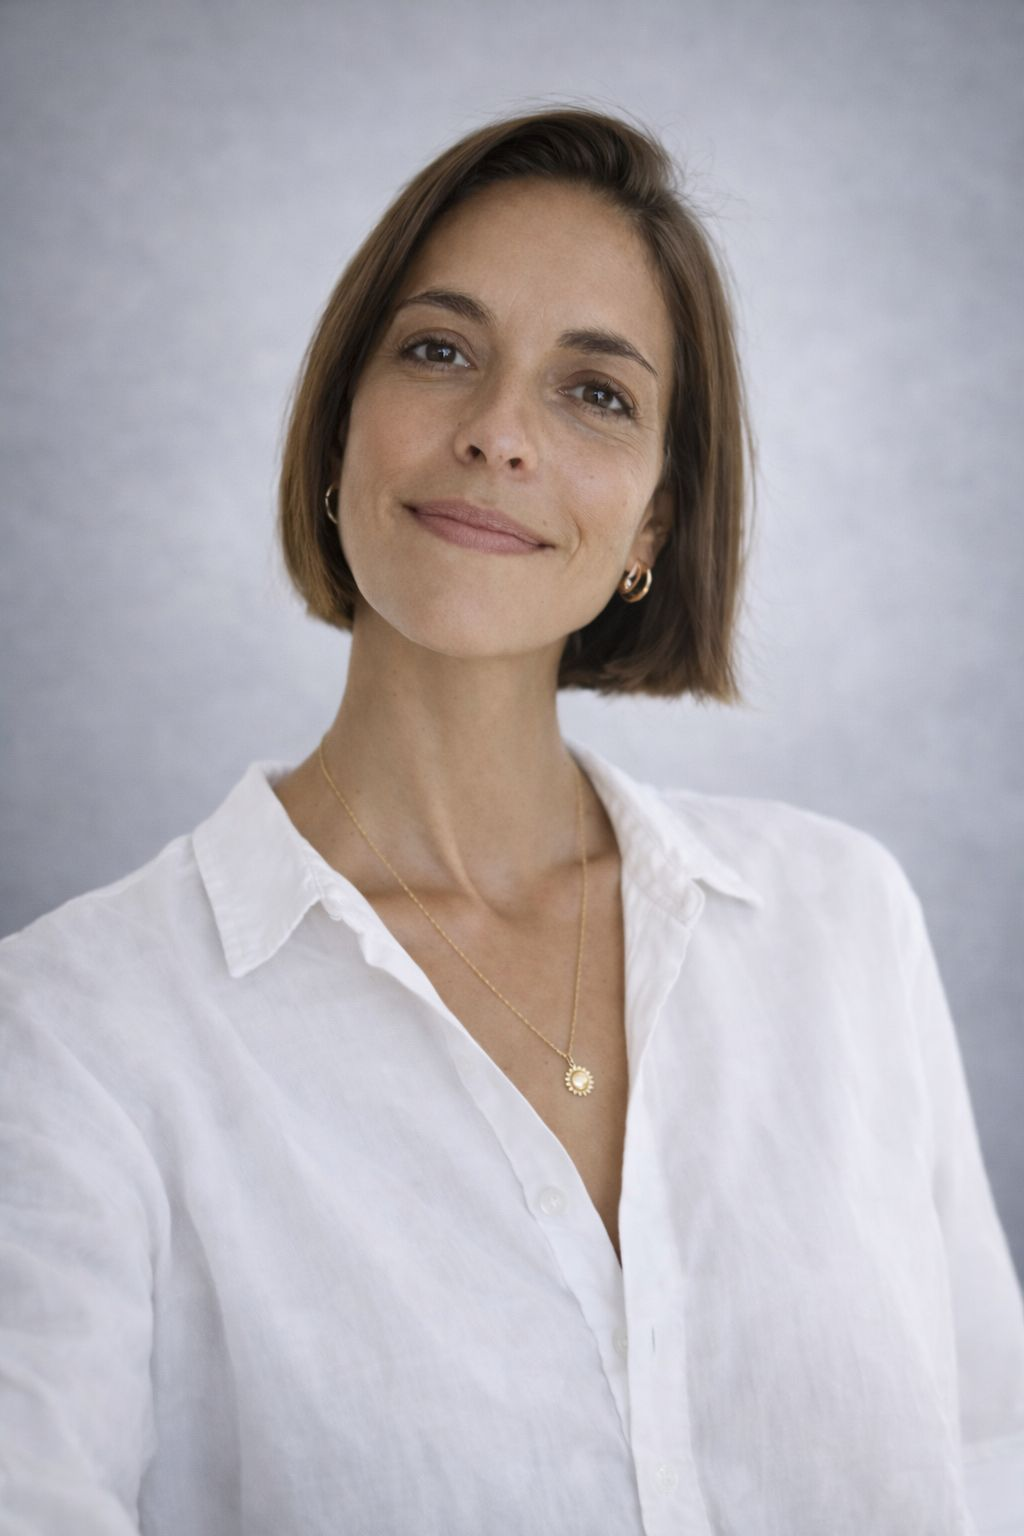
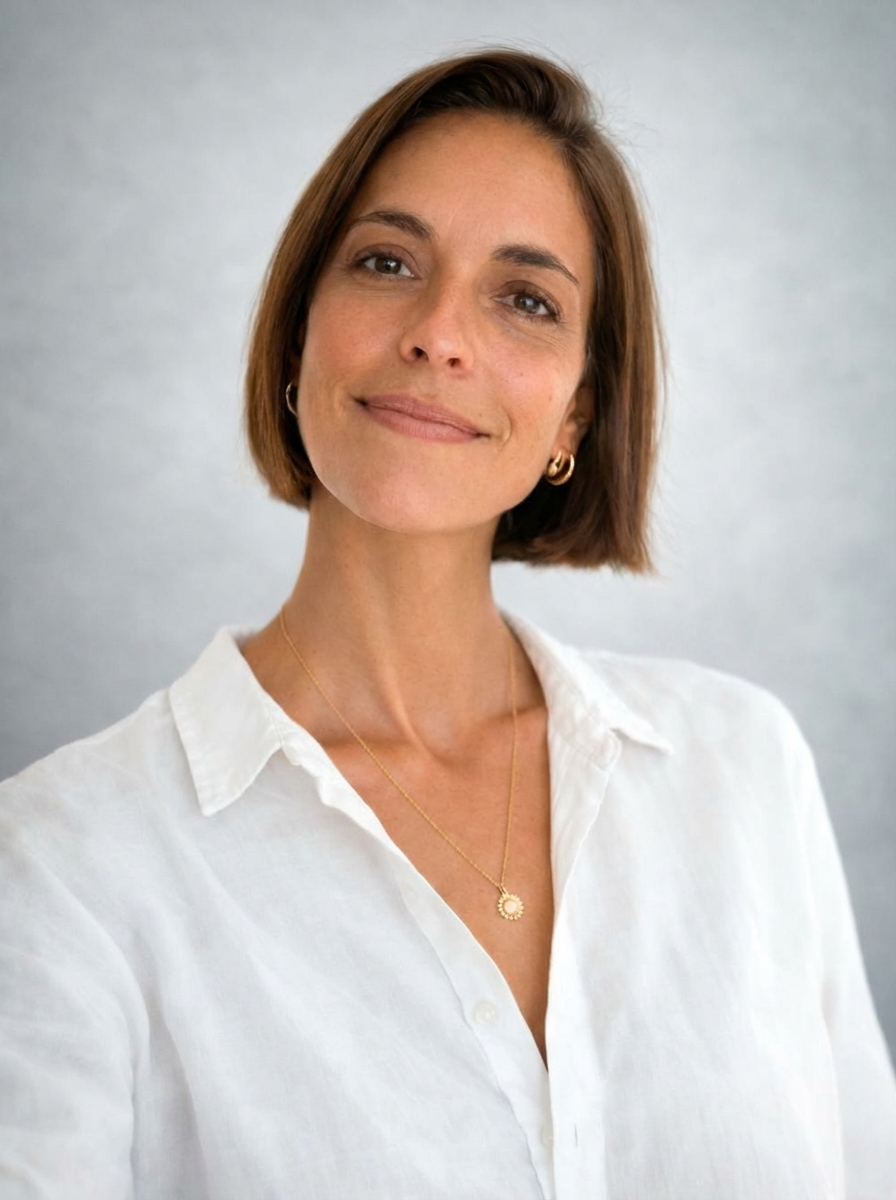
cambio fotos

diff --git a/src/components/MasterStations.tsx b/src/components/MasterStations.tsx
@@ -4,12 +4,13 @@ import { motion } from "framer-motion";
 import Image from "next/image";
 
 import fotoJoaco from "../../public/foto-joaco.png";
-import fotoMalu from "../../public/foto-malu.png";
-import fotoMeli from "../../public/foto-meli.png";
-import fotoYuli from "../../public/foto-yuli.png";
-import fotoRodri from "../../public/foto-rodri.png";
-import fotoMarian from "../../public/foto-marian.png";
+import fotoMalu from "../../public/foto-malu.jpeg";
+import fotoMeli from "../../public/foto-melisa.jpeg";
+import fotoYuli from "../../public/foto-yuli.jpeg";
+import fotoRodri from "../../public/foto-rodrigo.jpeg";
+import fotoMarian from "../../public/foto-mariangeles.jpeg";
 import fotoQuimey from "../../public/foto-quimey.png";
+import fotoBarbra from "../../public/foto-barbra.jpeg";
 
 const masters = [
     { 
@@ -67,6 +68,14 @@ const masters = [
         role: "FUSIÓN CIBER-ESPIRITUAL",
         title: "Tecnología e Inteligencia Artificial", 
         description: "La tecnología avanza cada vez más rápido, y muchas veces puede sentirse lejana, confusa o incluso intimidante. Sin embargo, cuando aprendemos a relacionarnos con ella de forma simple, se convierte en una gran aliada para crear, trabajar y compartir lo que tenemos para ofrecer. Acompaño a personas que quieren empezar a utilizar herramientas de inteligencia artificial sin sentirse perdidas en el proceso. Desde lo más básico hasta aplicaciones más avanzadas, el objetivo es que la tecnología deje de ser un obstáculo y se transforme en una herramienta a tu favor. En esta estación exploramos cómo amigarnos con la IA y usarla de forma práctica para potenciar nuestras ideas, simplificar tareas y abrir nuevas posibilidades para nuestros proyectos." 
+    },
+    {
+        name: "Barbra Podestá",
+        image: fotoBarbra,
+        position: "object-top",
+        role: "EMPERATRIZ",
+        title: "Astróloga y Alquimista",
+        description: "Traduzco el lenguaje de los astros y lo bajo a la Tierra. Leo el cielo en tiempo real y guío mi vida a través de las energías del Universo. Formo seres para que puedan comprender, traducir y aprovechar el cielo tanto como lo hago yo. Me especializo en QUIRÓN, la herida del alma, acompañándote a tomar conciencia y liberar memorias de dolor."
     }
 ];
 
